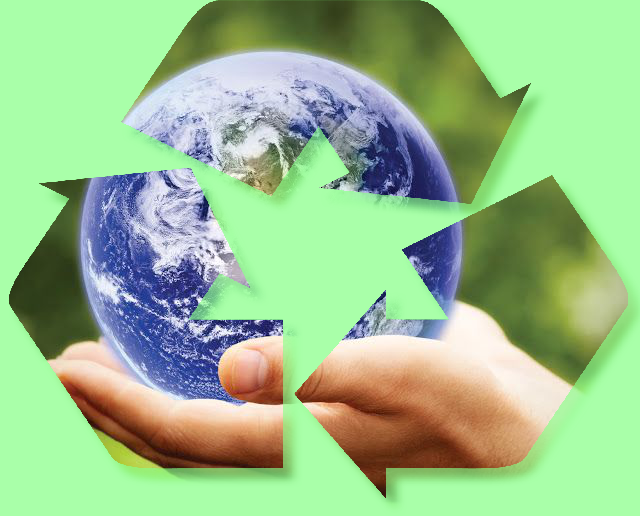
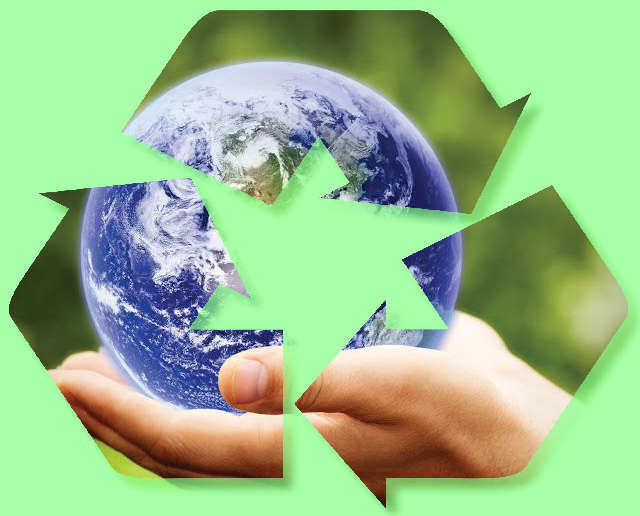
Final Change?

diff --git a/AFritson_1_4_7.py b/AFritson_1_4_7.py
@@ -13,7 +13,7 @@ def recycle_mask(original_image):
     recycle_img = PIL.Image.open(recycle_file)
     recycle_size = recycle_img.resize((width, height))
     result = PIL.Image.new('RGBA', original_image.size, (35,255,35,100))
-    result.paste(original_image, (8,0), mask=recycle_size)
+    result.paste(original_image, (8,10), mask=recycle_size)
     return result
 
 #Get images in the current working directory
@@ -74,6 +74,3 @@ def recycle_mask_to_all_images(directory=None):
         #save the altered image, suing PNG to retain transparency
         new_image_filename = os.path.join(new_directory, filename + '.png')
         new_image.save(new_image_filename)    
-
-
- 
